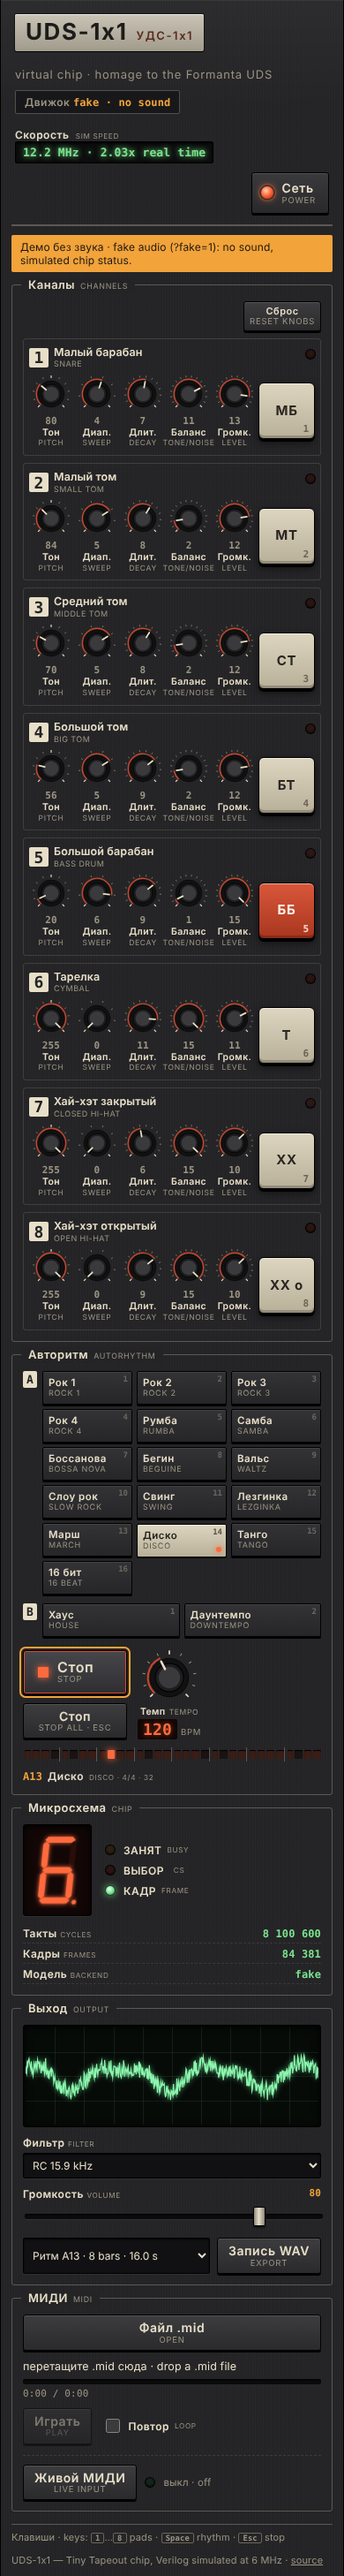
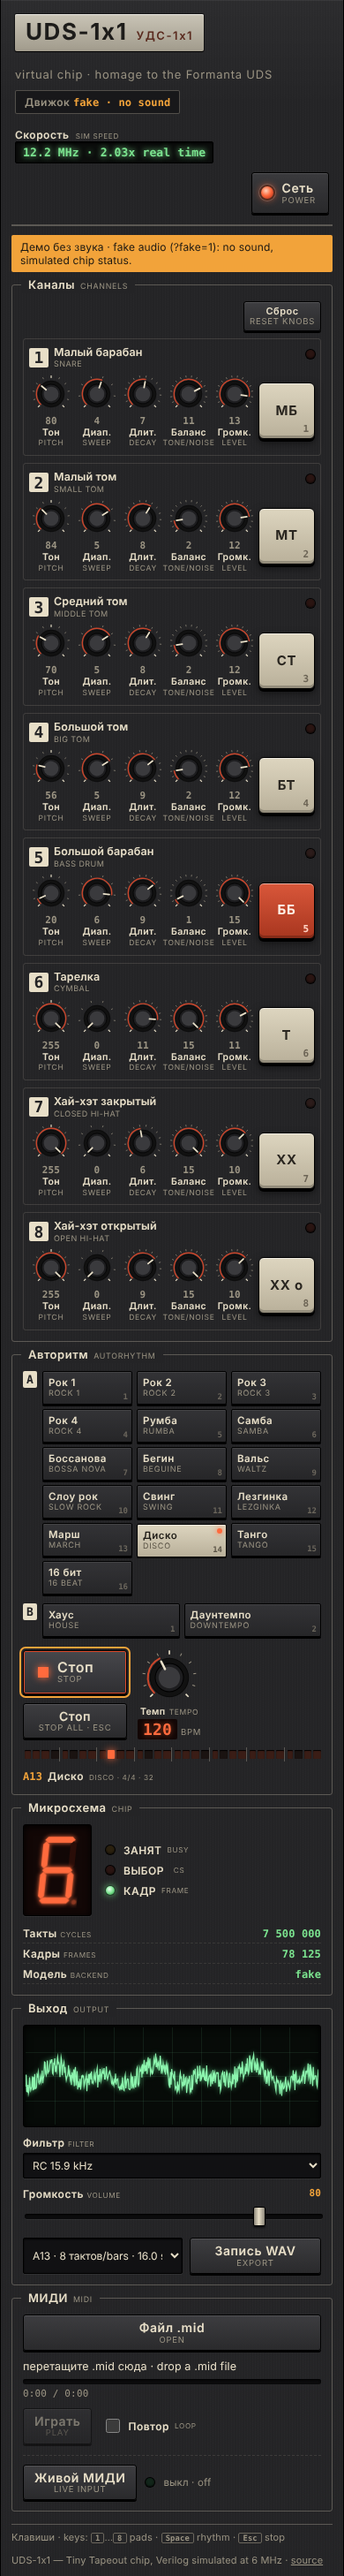
ui: layout at 1280, pattern names wrap, WAV row wraps, fresh screenshots
Claude-Session: https://claude.ai/code/session_01DxrHn66ESfrzLtxsJb9K4x

diff --git a/app/ui/panel.css b/app/ui/panel.css
@@ -265,8 +265,9 @@ input[type=range]::-webkit-slider-thumb {
 }
 input[type=range]::-moz-range-track { height: 6px; border-radius: 3px; background: #0b0b0c; }
 input[type=range]::-moz-range-thumb { width: 14px; height: 22px; border-radius: 2px; border: 1px solid #000; background: #d8cfb8; }
-.wav-row { display: flex; gap: 8px; margin-top: 10px; align-items: stretch; }
-.wav-row select { flex: 1 1 auto; min-width: 0; }
+.wav-row { display: flex; flex-wrap: wrap; gap: 8px; margin-top: 10px; align-items: stretch; }
+.wav-row select { flex: 1 1 150px; min-width: 0; }
+.wav-row .btn { flex: 1 0 auto; }
 
 /* ---------- buttons ---------- */
 .btn {
@@ -298,12 +299,12 @@ input[type=range]::-moz-range-thumb { width: 14px; height: 22px; border-radius: 
   box-shadow: inset 0 1px 0 rgba(255,255,255,0.08), 0 2px 0 #000;
 }
 .pat:hover { background: linear-gradient(180deg, #3d3d40, #2b2b2e); }
-.pat-idx { position: absolute; right: 4px; top: 3px; font: 600 9px var(--mono); color: var(--ink-faint); }
-.pat-nm .ru { display: block; font-size: 11.5px; padding-right: 13px; line-height: 1.1; white-space: nowrap; overflow: hidden; text-overflow: ellipsis; }
-.pat-nm small { font-size: 9px; white-space: nowrap; overflow: hidden; text-overflow: ellipsis; }
+.pat-idx { position: absolute; right: 4px; bottom: 3px; font: 600 9px var(--mono); color: var(--ink-faint); }
+.pat-nm .ru { display: block; font-size: 11.5px; line-height: 1.1; overflow-wrap: break-word; hyphens: auto; }
+.pat-nm small { font-size: 9px; padding-right: 12px; white-space: nowrap; overflow: hidden; text-overflow: ellipsis; }
 .pat.sel { background: linear-gradient(180deg, var(--ivory), var(--ivory-lo)); color: #1e1b16; box-shadow: inset 0 1px 0 #fff8, 0 1px 0 #000; transform: translateY(1px); }
 .pat.sel small, .pat.sel .pat-idx { color: #5b5446; }
-.pat.sel::after { content: ""; position: absolute; bottom: 5px; right: 5px; width: 6px; height: 6px; border-radius: 50%; background: var(--red-hot); box-shadow: 0 0 6px var(--red-hot); }
+.pat.sel::after { content: ""; position: absolute; top: 4px; right: 4px; width: 6px; height: 6px; border-radius: 50%; background: var(--red-hot); box-shadow: 0 0 6px var(--red-hot); }
 .transport { display: grid; grid-template-columns: auto auto; gap: 8px 12px; align-items: center; }
 .btn-big { grid-row: 1; padding: 10px 16px; display: flex; gap: 10px; align-items: center; min-width: 118px; }
 .btn-big .lbl { display: grid; text-align: left; }
@@ -360,15 +361,19 @@ input[type=range]::-moz-range-thumb { width: 14px; height: 22px; border-radius: 
 body[data-state="running"] .led#led-frame { }
 
 /* ---------- 1024..1279 ---------- */
-@media (max-width: 1279px) {
-  .panel { grid-template-columns: minmax(0, 1fr) 290px; }
+@media (max-width: 1100px) {
   .pats { grid-template-columns: repeat(4, minmax(0, 1fr)); }
+}
+@media (max-width: 1359px) {
+  .panel { grid-template-columns: minmax(0, 1fr) 290px; }
   .strips { grid-template-columns: 68px repeat(8, minmax(0, 1fr)); }
   .legend-row { font-size: 12px; }
 }
-@media (min-width: 760px) and (max-width: 1279px) {
+@media (min-width: 760px) and (max-width: 1359px) {
   .strips-block { --headh: 66px; }
-  .pat-nm .ru { white-space: normal; overflow-wrap: anywhere; font-size: 11px; }
+  .pat-nm .ru { white-space: normal; overflow-wrap: break-word; hyphens: auto; font-size: 11px; }
+  .pat-nm small { white-space: normal; overflow-wrap: break-word; }
+  .transport .btn-big { min-width: 100px; }
   .strip-head { grid-template-columns: auto minmax(0, 1fr) auto; row-gap: 3px; padding: 0 2px; }
   .strip-num { grid-row: 1; width: 20px; height: 20px; font-size: 15px; }
   .strip-names { grid-column: 1 / -1; grid-row: 2; }

diff --git a/app/ui/main.js b/app/ui/main.js
@@ -377,7 +377,7 @@ async function main() {
   }
   function updateWavLabel() {
     const o = $('wav-what').querySelector('option[value=rhythm]');
-    o.textContent = `Ритм ${uds.pattern} · 8 bars · ${wavSeconds().toFixed(1)} s`;
+    o.textContent = `${uds.pattern} · 8 тактов/bars · ${wavSeconds().toFixed(1)} s`;
   }
   $('wav-what').addEventListener('change', updateWavLabel);
   $('wav-export').addEventListener('click', async () => {
